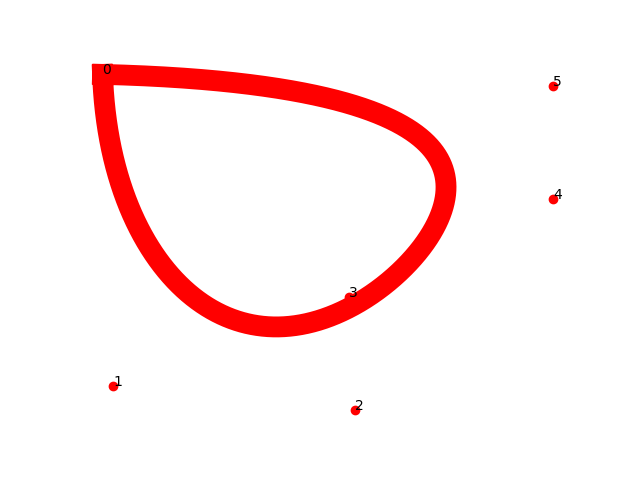
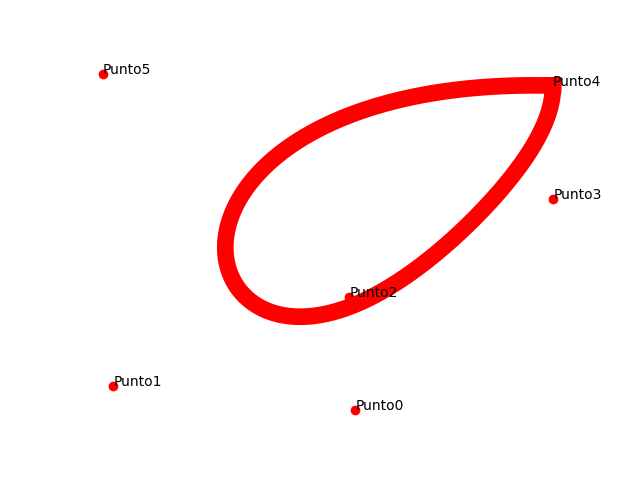
feat: Select initial point

diff --git a/PC2 - Anchi Dueñas/av.py b/PC2 - Anchi Dueñas/av.py
@@ -17,7 +17,6 @@ mascara_rojo1 = cv2.inRange(hsv, rojo_bajo1, rojo_alto1)
 mascara_rojo2 = cv2.inRange(hsv, rojo_bajo2, rojo_alto2)
 mascara_rojoUnido = cv2.add(mascara_rojo1, mascara_rojo2)
 mascara_visualizado = cv2.bitwise_and(image, image, mask=mascara_rojoUnido)
-cv2.imshow('mascarasolorojo', mascara_visualizado)
 cnts, _ = cv2.findContours(
     mascara_rojoUnido, cv2.RETR_EXTERNAL, cv2.CHAIN_APPROX_SIMPLE)
 
@@ -27,13 +26,14 @@ for c in cnts:
     approx = cv2.approxPolyDP(c, epsilon, True)
     if len(approx) > 10:
         x, y, w, h = cv2.boundingRect(approx)
-        print(x, y, w, h)
         positions.append([x, y])
+        # Print the last point saved
+        print('Point',len(positions)-1,'=>',positions[-1])
         cv2.putText(image, "("+str(x)+","+str(y)+")",
                     (x, y-5), 1, 1, (0, 0, 0), 1)
 cv2.imshow('imagen', image)
 cv2.imwrite('esferasRojas.jpg', image)
-cv2.waitKey(10000)
+cv2.waitKey()
 cv2.destroyAllWindows()
 
 
@@ -43,6 +43,10 @@ Ptos = []
 for arr_i, arr in enumerate(positions):
     Ptos.append(Punto(arr[0], arr[1], 'Punto'+str(arr_i)))
 
+inicialLabel = input('Ingrese el numero del punto inicial:')
+# print('Ptos, ', Ptos)
+puntoInicial = Ptos[int(inicialLabel)]
+print('pTO INICIAL',puntoInicial)
 global Pc
 global Pm
 
@@ -52,10 +56,10 @@ Pm = 0.2
 tamgeneraciones = 10
 
 
-def crearpoblacion(tampoblacion):
+def crearpoblacion(tampoblacion,inicial):
     pobla = []
     for i in range(tampoblacion):
-        pobla.append(Cromosoma(Ptos, str(i)))
+        pobla.append(Cromosoma(Ptos, str(i),inicial))
     return pobla
 
 
@@ -127,9 +131,9 @@ def corregir(H):
     return H
 
 
-def cruce1punto(P1, P2):
-    H1 = Cromosoma(Ptos, str(0))
-    H2 = Cromosoma(Ptos, str(0))
+def cruce1punto(P1, P2,inicial):
+    H1 = Cromosoma(Ptos, str(0),inicial)
+    H2 = Cromosoma(Ptos, str(0),inicial)
     for i in range(len(P1.Puntos)):
         H1.Puntos[i] = P1.Puntos[i]
         H2.Puntos[i] = P2.Puntos[i]
@@ -158,15 +162,15 @@ def mutacion(H):
 
 
 print("--- Inicia el proceso evolutivo ----------")
-Poblacion = crearpoblacion(tampoblacion)
+Poblacion = crearpoblacion(tampoblacion,int(inicialLabel))
 Poblacion = ordenarporfitness(Poblacion.copy())
 Poblacion = calcularprobabilidadA(Poblacion)
 mostrarpoblacion(Poblacion)
-PoblacionT = crearpoblacion(tampoblacion)
+PoblacionT = crearpoblacion(tampoblacion,int(inicialLabel))
 for t in range(tamgeneraciones):
     for i in range(int(tampoblacion/2)):
         P1, P2 = seleccion(Poblacion.copy())
-        H1, H2 = cruce1punto(P1, P2)
+        H1, H2 = cruce1punto(P1, P2,int(inicialLabel))
         H1 = mutacion(H1)
         H2 = mutacion(H2)
         H1.etiqueta = 'C'+str(2*i)
@@ -181,8 +185,9 @@ print("Mejor solucion")
 Poblacion[len(Poblacion)-1].mostrar()
 
 puntos_ordenados = []
-
+label_puntos_ordenados = []
 for p in Poblacion[len(Poblacion)-1].Puntos:
+    label_puntos_ordenados.append(p.etiqueta)
     puntos_ordenados.append([p.P()[0], p.P()[1]])
 
 print('Puntos ordenados:')
@@ -217,12 +222,13 @@ if __name__ == "__main__":
 
     xvals, yvals = bezier_curve(
         [*puntos_ordenados, puntos_ordenados[0]], nTimes=10000)
-    plt.plot(xvals, yvals, 'r', linewidth=15)
-    plt.plot(xpoints, ypoints, "ro") # puntos de control
-    plt.axis('off') # quitar ejes
+    plt.plot(xvals, yvals, 'r', linewidth=12)
+    plt.plot(xpoints, ypoints, "ro")  # puntos de control
+    plt.axis('off')  # quitar ejes
     for nr in range(len(puntos_ordenados)):
-        plt.text(puntos_ordenados[nr][0], puntos_ordenados[nr][1], nr)  # type: ignore
+        plt.text(puntos_ordenados[nr][0], puntos_ordenados[nr]
+                 [1], label_puntos_ordenados[nr])  # type: ignore
     plt.gca().invert_yaxis()
     plt.savefig('bezier_curve.png')
-    
+
     plt.show()

diff --git a/PC2 - Anchi Dueñas/claseCromosoma.py b/PC2 - Anchi Dueñas/claseCromosoma.py
@@ -1,34 +1,59 @@
 import random
 from clasePunto import *
-class Cromosoma:    
-    def __init__(self,Puntos,etiqueta):
+
+
+class Cromosoma:
+    def __init__(self, Puntos, etiqueta, inicial):
         self.tamcromosoma = len(Puntos)
         self.Puntos = Puntos
         self.p = 0
         self.pA = 0
         self.fitness = 0
         self.etiqueta = 'C'+etiqueta
-        self.Puntos = self.aleatorio(Puntos.copy())
-           
-    def aleatorio(self,Puntos):
+        self.Puntos = self.aleatorio(Puntos.copy(), inicial)
+
+# def line(p1, p2):
+#     A = (p1[1] - p2[1])
+#     B = (p2[0] - p1[0])
+#     C = (p1[0]*p2[1] - p2[0]*p1[1])
+#     return A, B, -C
+
+# def intersection(L1, L2):
+#     D  = L1[0] * L2[1] - L1[1] * L2[0]
+#     Dx = L1[2] * L2[1] - L1[1] * L2[2]
+#     Dy = L1[0] * L2[2] - L1[2] * L2[0]
+#     if D != 0:
+#         x = Dx / D
+#         y = Dy / D
+#         return x,y
+#     else:
+#         return False
+
+    def aleatorio(self, Puntos, inicial):
         salida = []
-        while len(Puntos)>0:
-            i = random.randint(0,len(Puntos)-1)
+        # Remove one specific element form array
+        initialPoint = Puntos[inicial]
+        del Puntos[inicial]
+
+        while len(Puntos) > 0:
+            i = random.randint(0, len(Puntos)-1)
             salida.append(Puntos[i])
             Puntos.pop(i)
-        return salida
+        return [initialPoint, *salida]
+
     def distancia(self):
         suma = 0
         for i in range(len(self.Puntos)-1):
-            [x1,y1,_] = self.Puntos[i].P()
-            [x2,y2,_] = self.Puntos[i+1].P()
+            [x1, y1, _] = self.Puntos[i].P()
+            [x2, y2, _] = self.Puntos[i+1].P()
             d = ((x2-x1)**2 + (y2-y1)**2)**0.5
             suma = suma + d
         return suma
-        
+
     def mostrar(self):
         s = ""
         for i in range(len(self.Puntos)):
             s = s + "-" + self.Puntos[i].etiqueta
-        s = str(self.etiqueta)+": "+str(round(self.distancia(),4)) + "\t" + str(round(self.fitness,4)) + "\t"+ str(round(self.p,4))+ "\t"+ str(round(self.pA,4)) + "\t" + s
+        s = str(self.etiqueta)+": "+str(round(self.distancia(), 4)) + "\t" + str(round(self.fitness, 4)
+                                                                                 ) + "\t" + str(round(self.p, 4)) + "\t" + str(round(self.pA, 4)) + "\t" + s
         print(s)
